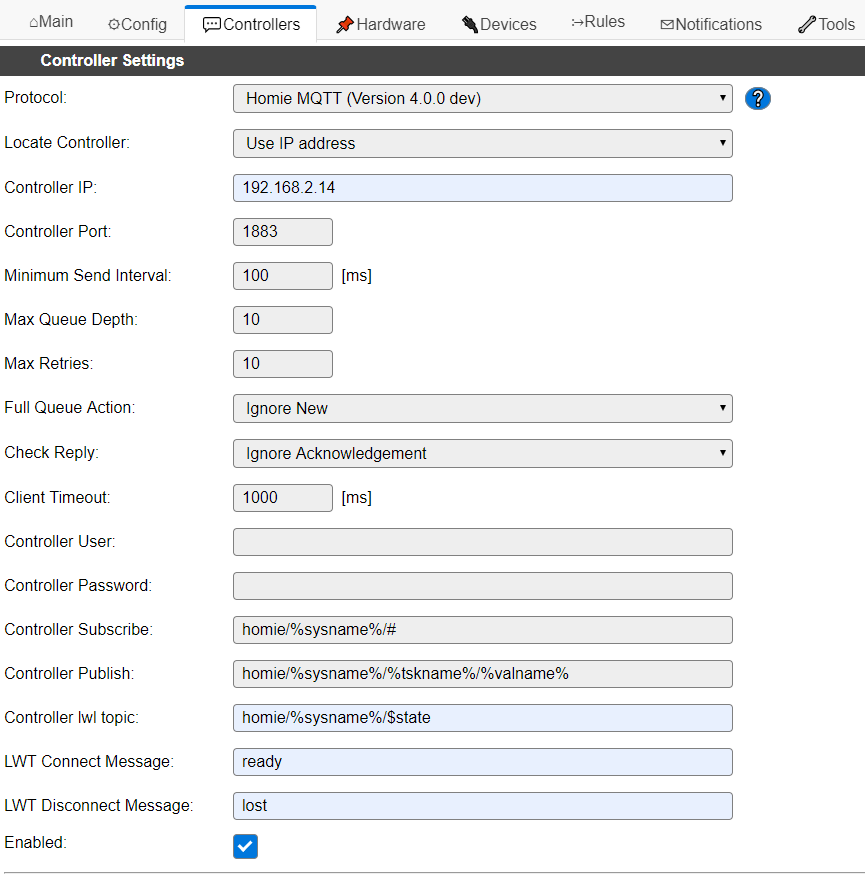
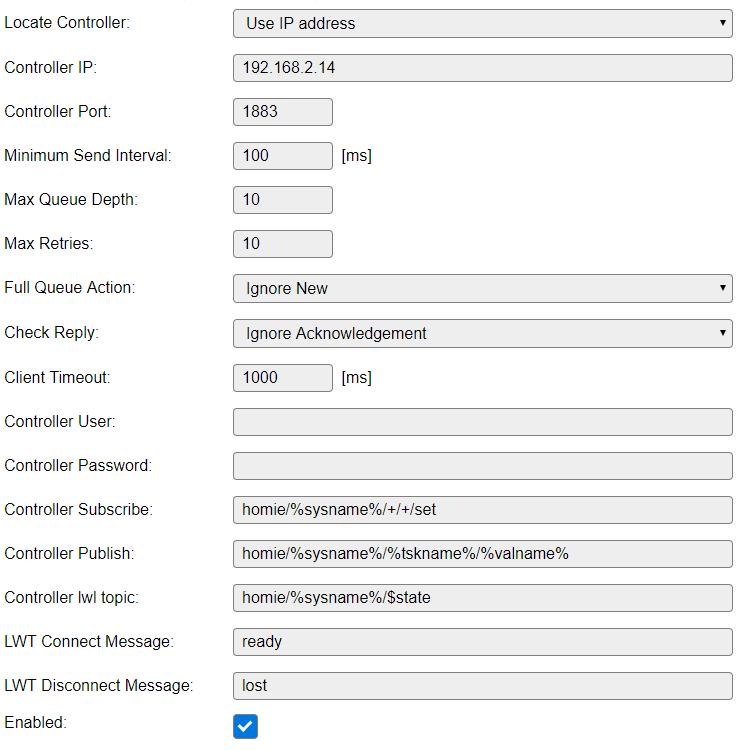
C014 Documentation

diff --git a/docs/source/Controller/C014.rst b/docs/source/Controller/C014.rst
@@ -27,54 +27,55 @@ Change log
   ...
 
   |added| 2019/04/25
-  Initial alpha version of this plugin.
+  Initial alpha version of this plug-in.
 
 Description
 -----------
 
 This controller connects to a MQTT Server providing auto-discover information and a communication protocol according to the Homie convention 3.0.1 and the future development version 4.0.0.
 
-For more information on `Homie convention <https://homieiot.github.io/>`_
+For more information head over to `Homie convention <https://homieiot.github.io/>`_
 
-The initial idea to implement this controller was to have a easy way to include ESPEasy in modern home automation systems without or with as less efford as possible. Imagine your device pops up in i.e. openHAB and you only have to pic the values you are interested in and can imidiatly see measurements or switch GPIOs without a single line of code.
+Idea is to provide an easy way to include ESPEasy in modern home automation systems without any or with as less effort as possible. Imagine your device pops up in openHAB 2.4 or higher as a new device and you only have to pic the values you are interested in. You can immediately see measurements or switch GPIOs without a single line of code.
 
-When a MQTT connection is established after boot the controller sends auto-discovery information for system services like commands and basic GPIO functions and for all values send by configured devices. When all messages where sent sucessfully a homie compatible home automation server or other compatible controllers should be able to detect the unit and establish zwo way communication.
+When a MQTT connection is established after (re-)boot the controller sends auto-discovery information for system services like commands, basic GPIO functions and for all configured devices and there values. When all messages where sent successfully a homie compatible home automation server/hub or other compatible controllers should be able to detect the unit and establish two way communication.
 
 MQTT topic scheme
 -----------------
 
-A homie topic scheme always starts with the root topic homie followed by the unit (homie uses the term device), device (node in homie) and a value name.
+A homie topic scheme always starts with the root topic homie followed by the **unit name** (homie uses the term **device**), **device name** (**node** in homie) and a **value name**.
 
 ``homie/%unitname%/%devicename%/%valname%``
 
-updates or commands can be sent by appending /set to the topics for values which can receive data.
+updates or commands can be sent by appending ``/set`` to the topics for values which can receive data.
 
 ``homie/%unitname%/%devicename%/%valname%/set``
 
 Prequesites
 -----------
 
-A MQTT server capable of storing messages sent with ``retain=true`` when sent with ``QoS=0``. Due to limitation (intentional not implemented due to low memory foodprint and performance considerations) of the MQTT library (pubsubclient) used in ESPEasy it is only possible to send messages with ``QoS=0`` which basicly means `fire and forget`. The current MQTT specification says that the server SHOULD store the message when it arives via ``QoS=0``. Some servers like the MQTT server currently build into openHAB 2.4 (moquette) is configured in this way. Mosquito on the other hand store messages when retain flag is set even when they are sent with ``QOS=0``.
-Check with a MQTT client like MQTTspy or MQTTfx if the auto-discover messages are stored.
+A MQTT server capable of storing messages sent with ``retain=true`` when  ``QoS=0``. Due to limitation (intentional not implemented due to low memory footprint and performance considerations) of the MQTT library (pubsubclient) used in ESPEasy it is only possible to send messages with ``QoS=0`` which basically means `fire and forget`. The current MQTT specification says that the server SHOULD store these messages when they arrive via ``QoS=0``. Some servers like the MQTT server currently build into openHAB 2.4 (moquette) is configured to ignore the retain flag and drop the message after delivery to the currently subscribed clients when ``QoS=0``. Mosquito on the other hand store messages when retain flag is set even when they are sent with ``QOS=0``.
+Check with a MQTT client like MQTTspy or MQTTfx if the auto-discover messages are stored (retained).
 
-A home autmation server/controller capable talking Homie like openHAB since 2.4. (Be aware ther are issues in the Homie implementation 2.4 including 2.5M1 milestone release not working as expected after restat of openHAB). Recent snapshot and 2.5 builds should work.
+A home automation server/controller capable talking Homie like openHAB since 2.4. (Be aware there are issues in the Homie implementation 2.4 including 2.5M1 milestone release not working as expected after restart). Recent snapshot builds should work.
 
 Setup
 -------------
 
 - add the Homie **Homie MQTT (Version 4.0.0 dev)** or **Homie MQTT (Version 3.0.1 dev)** controller to your controller lists depending on your build.
 - insert your broker address
-- and user credentials if nessesary
+- and user credentials if necessary
 - the publish scheme is fixed to meet the homie requirements to ``homie/%sysname%/%tskname%/%valname%``
-- the subscription scheme can be modified. Current defaults to ``homie/%sysname%/#``. Alterantively ``homie/%sysname%/+/+/set`` could be tested to reduce unnessesary traffic. Homie only expects messages via the ``homie/%sysname%/%tskname%/%valname%/set`` topic.
+- the subscription scheme can be modified. Current defaults to ``homie/%sysname%/+/+/set`` to reduce incoming traffic to a minimum. Homie only expects messages via the ``homie/%sysname%/%tskname%/%valname%/set`` topic.
 - last will topic (LWT) should set to ``homie/%sysname%/$state``
 - LWT Connect Message to ``ready``
 - LWT Disconnect Message to ``lost``
-- save and reboot, best with connected serial monitor or syslog server with debug set to 4 (debug) or greater (alterantively use a MQTT client and subscribe to ``homie/%sysname%/#`` - replase %sysname% by the unit-name shown on the top of the webpage).
+- save and reboot, best with connected serial monitor or syslog server with debug set to 4 (debug) or greater (alternatively use a MQTT client and subscribe to ``homie/%sysname%/#`` - replace %sysname% by the unit-name shown on the top of the webpage).
 
 .. image:: C0014_Setup_0.png
 
 - ``homie/%sysname%/$nodes`` enumerating all devices will be sent as final message of the auto-discover header.
+- The final event log should look like this:
 
 .. code-block:: html
 
@@ -84,14 +85,14 @@ Setup
 Troubleshoot
 ------------
 
-The auto-discover information is sent through a big number of messages (usual more than 20). If your controller software shows errors during the auto-discover process try the following steps:
+The auto-discover information is sent through a big number of messages (usual more than 20). If your controller software not recognize your device or shows errors during the auto-discover process try the following steps:
 
 - For testing purposes start with a basic setup with none or only one device configured and enabled.
 - More devices can be added or (re-)enabled later.
 - Disable already configured devices (devices without the enabled box ticked will be ignored)
-- Check with a MQTT client if all messages are sent. The last message is ``$nodes`` attribute listing minimum the ``SYSTEM`` node if no devices are enabled.
+- Check with a MQTT client if all messages are sent. The last message sent is ``$nodes`` attribute listing minimum the ``SYSTEM`` node if no other devices are enabled.
 - check your WIFI connection. Perhaps bring your device nearer to your access point. (only necessary during the setup process because the messages should be stored by the broker)
-- check via syslog or serial console if the messages are sent successful (you can't see the log output in the web log)
+- check via syslog or serial console if the messages are sent successful (you normaly can't see the log output in the web log)
 - use the `mqqt-forget <https://www.npmjs.com/package/mqtt-forget>`_ tool to delete unused retained messages from your broker via wildcards
 
 Features
@@ -99,31 +100,30 @@ Features
 
 The controller currently supports these features
 
-- send autodiscover nodes for all sending and enabled plugins to ``homie/%unitName%/%deviceName%/%valueName%``
+- send auto-discover nodes for all sending and enabled plug-ins to ``homie/%unitName%/%deviceName%/%valueName%``
 - receive commands through the ``homie/%unitName%/SYSTEM/cmd/set`` topic.
-- switch GPIOs through ``homie/%unitName%/SYSTEM/gpio#/set`` topic. The GPIO port must be set to **default low** or **default high** in the hardware tab to be included during autodiscover.
-- send updates of GPIO ports to ``homie/%unitName%/SYSTEM/gpio#`` regardles from where the change is triggered (to be fully tested).
+- switch GPIOs through ``homie/%unitName%/SYSTEM/gpio#/set`` topic. The GPIO port must be set to **default low** or **default high** in the hardware tab to be included during auto-discover.
+- send updates of GPIO ports to ``homie/%unitName%/SYSTEM/gpio#`` regardless from where the change is triggered (to be fully tested).
 - receive values for dummy devices via ``homie/%unitName%/%dummyDeviceName%/%valueName%/set``. From there the values can be processed further by using rules.
-- set gpio pins of pcf8574 port expanders. Use the updated pcf8574 (P019) plugin to select witch gpio pins should act as an output  (to be fully tested).
-- handle ``$state`` attribute (for complete list see atrribute table above)
+- handle ``$state`` attribute (for complete list see attribute table below)
 
   - ``init`` during boot process
   - ``ready`` during normal operation and as a heartbeat every 30sec (to be tested)
-  - ``alert`` currently only if auto-discover fails. (ToDo: inform about more error states)
+  - ``alert`` currently only if auto-discover fails. But if sending the auto-discover messages fails it is more than likely that sending the alert message will fail to. (ToDo: inform about other error states like low ram or stack available, repeating reboots or failed sensors)
   - ``sleeping`` sent before deep sleep
-  - ``lost`` should be configured as LWT
-  - ``disconnected`` sent to the old topic if the unit name changes to inform that the old topic is not valid any more. Auto-discover messages are sent automaticly to the modified topic tree.
+  - ``lost`` configured as LWT
+  - ``disconnected`` sent to the old topic if the unit name changes to inform that the old topic is not valid any more. Auto-discover messages are sent automagically to the new topics afterwards.
 
 - acknowledge received message by the ``homie/%unitName%/%deviceName%/%valueName%/set`` topic to the corresponding value ``homie/%unitName%/%deviceName%/%valueName%`` even if the value was changed by a different source like HTTP or rule to keep the state in your home automation system allays up to date. (Needs further testing)
 
 Future / planned features
 -------------------------
 
-- Further in the field testing with different MQTT broker and home automation systems.
+- a special Homie Plugin is in devolopment to pass ``\set`` messages to rules for further handling. Here ``$datatype`` and ``$format`` attributes for ``$setable`` values can be specified there. This will enable ESPEasy to handle direct inputs to plug-ins like dimmers (%,0:100), colors (RGB & HSV, 255,255,255), enum devices like remote controls (Play, Pause, Vol+, Vol-, ...).
+- Currently receiving plug-ins can only be controlled by sending the corresponding command to ``../SYSTEM/cmd/set`` (except the **dummy device**).
+- Further in field testing with different MQTT brokers and home automation systems.
 - Handling units via the ``$unit`` attribute. As ESPEasy is currenty "unitless" this needs a global concept within ESPEasy
 - Handling ``$datatype`` attribute. Currenly all values (except cmd and gpio) are defined as ``float``.
-- Handling ``$format`` attribute. Again needs a global concept within ESP_Easy.
-- Handling direct inputs to plugins like dimmers (%,0:100), colors (RGB & HSV, 255,255,255), enum devices like remote controlls (Play, Pause, Vol+, Vol-, ...). Currently these can be controlled by sending the corresponding command to ``../SYSTEM/cmd/set``. Only plugis with a single representation within most controllers (i.e. switches, dimmer, lists ...) by a **single** value make sense to be handled directly. If code is nessesary inside the controller / home automation server than this should handled by the DummyValueSet / rule procedure.
 - Prepare some "working examples".
 
 Under the hood
@@ -133,10 +133,17 @@ Auto-dicover information is sent by several $attributes
 
 currently the following attributes will be sent during boot
 
-
+Unit (Device) attributes
+^^^^^^^^^^^^^^^^^^^^^^^^
 
 .. include:: C014_attributes.repl
 
+Device (Node) attributes
+^^^^^^^^^^^^^^^^^^^^^^^^
+
 .. include:: C014_node_attributes.repl
+
+Value attributes
+^^^^^^^^^^^^^^^^
 
 .. include:: C014_property_attributes.repl
